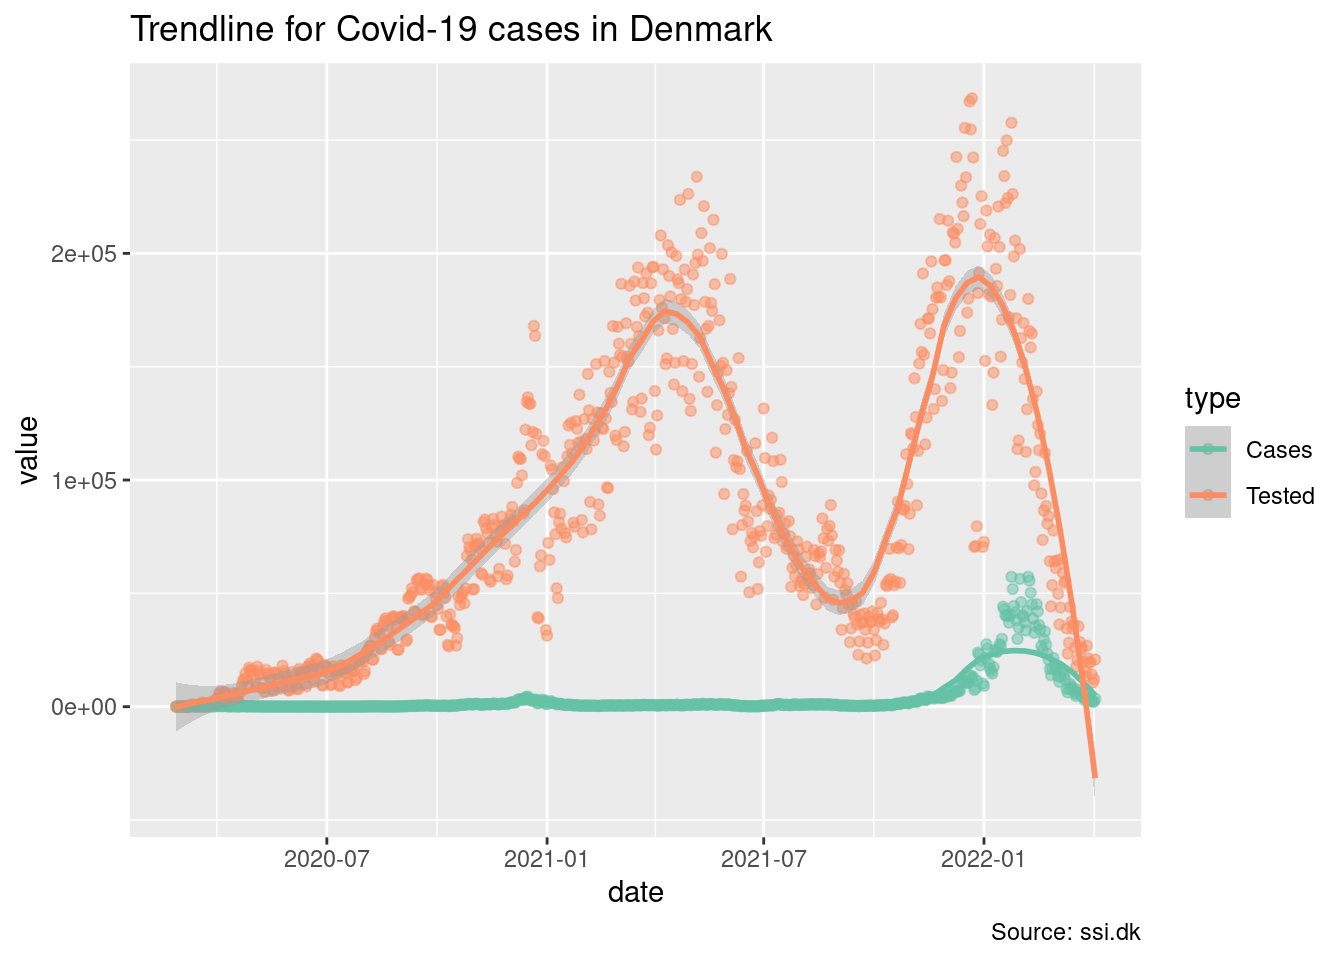
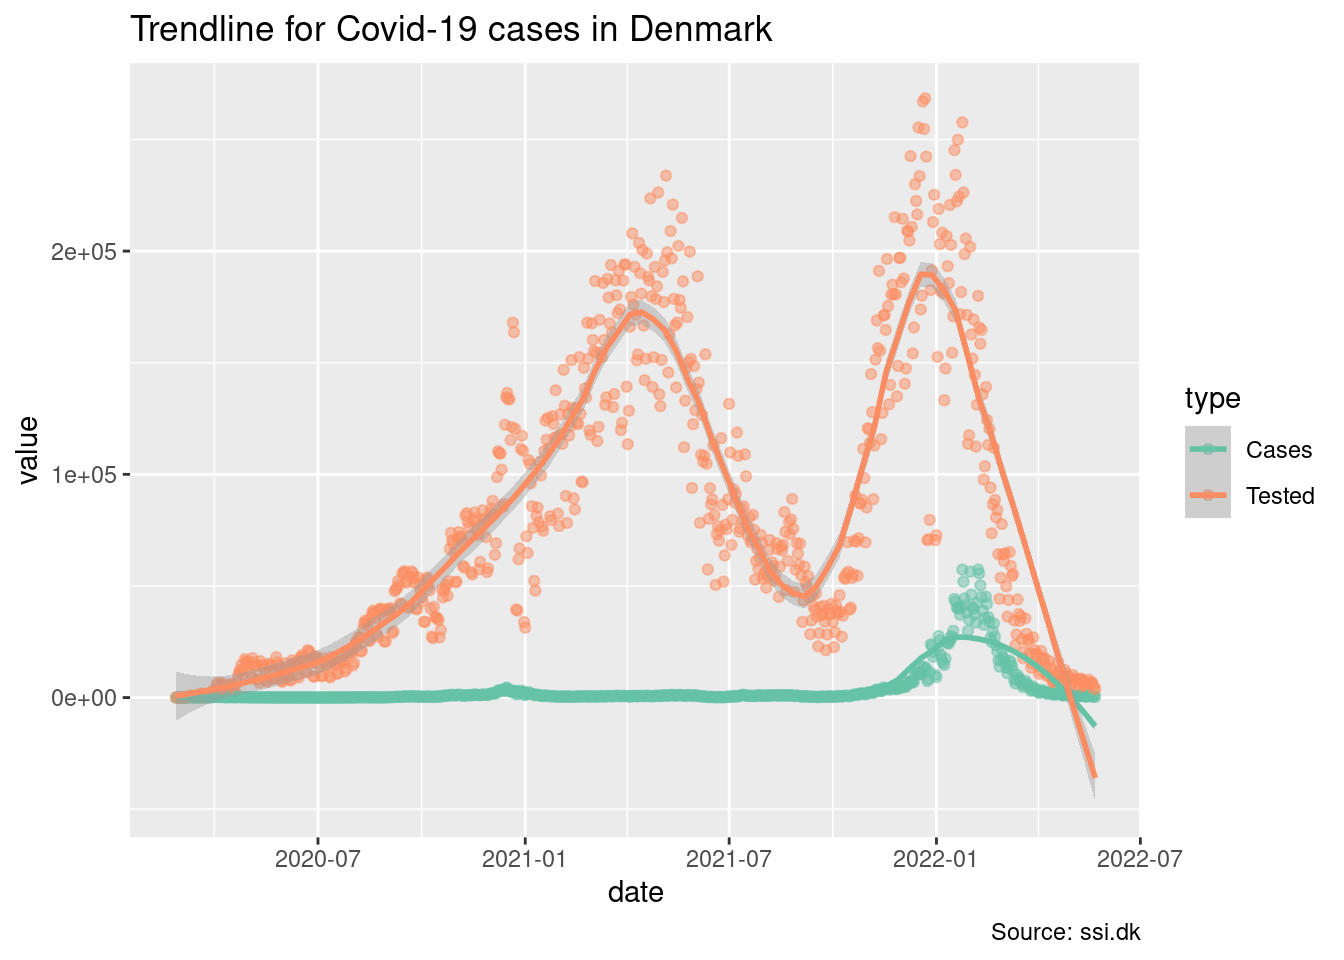
2022-05-24

diff --git a/docs/index.html b/docs/index.html
@@ -10,7 +10,7 @@
 
 
 
-<meta name="date" content="2022-04-06" />
+<meta name="date" content="2022-05-24" />
 
 <title>Covid-19 Stats for Denmark</title>
 
@@ -261,7 +261,7 @@ $(document).ready(function () {
 
 
 <h1 class="title toc-ignore">Covid-19 Stats for Denmark</h1>
-<h4 class="date">2022-04-06</h4>
+<h4 class="date">2022-05-24</h4>
 
 </div>
 
@@ -308,7 +308,7 @@ $(document).ready(function () {
 <pre class="r"><code>library(tidyverse)
 library(lubridate)</code></pre>
 <p>SSI’s data is in a zip file. We unpack this zip file into a directory of the general form <code>YYYY-MM-DD</code>. Lets set up a name for the current directory we want to grab data from</p>
-<pre class="r"><code>date &lt;- &quot;2022-04-06&quot;</code></pre>
+<pre class="r"><code>date &lt;- &quot;2022-05-24&quot;</code></pre>
 </div>
 <div id="ingesting-data" class="section level2">
 <h2>Ingesting data</h2>
@@ -350,7 +350,7 @@ library(lubridate)</code></pre>
                                       ))</code></pre>
 <pre><code>## ℹ Using &quot;&#39;,&#39;&quot; as decimal and &quot;&#39;.&#39;&quot; as grouping mark. Use `read_delim()` for more control.</code></pre>
 <pre class="r"><code>data</code></pre>
-<pre><code>## # A tibble: 7,350 × 9
+<pre><code>## # A tibble: 7,828 × 9
 ##    Region      Prøvetagningsdato Køn   `Bekræftede tilfælde…`  Døde Indlæggelser
 ##    &lt;fct&gt;       &lt;date&gt;            &lt;fct&gt;                  &lt;dbl&gt; &lt;dbl&gt;        &lt;dbl&gt;
 ##  1 Sjælland    2020-02-26        M                          1     0            0
@@ -363,7 +363,7 @@ library(lubridate)</code></pre>
 ##  8 Hovedstaden 2020-03-03        F                          1     0            0
 ##  9 Hovedstaden 2020-03-03        M                          3     0            1
 ## 10 Hovedstaden 2020-03-04        M                          2     0            0
-## # … with 7,340 more rows, and 3 more variables: `Kummuleret antal døde` &lt;dbl&gt;,
+## # … with 7,818 more rows, and 3 more variables: `Kummuleret antal døde` &lt;dbl&gt;,
 ## #   `Kummuleret antal bekræftede tilfælde` &lt;dbl&gt;,
 ## #   `Kummuleret antal indlæggelser` &lt;dbl&gt;</code></pre>
 <p>We certainly don’t want to work with danish-named columns. Rather, we want small descriptive names which are easy to type. We send our dataset through a <code>rename</code> pass for this.</p>
@@ -378,7 +378,7 @@ library(lubridate)</code></pre>
 # Cut the cumulative columns away
 data &lt;- data %&gt;% select(region, date, gender, cases, deaths, hospitalizations)
 data</code></pre>
-<pre><code>## # A tibble: 7,350 × 6
+<pre><code>## # A tibble: 7,828 × 6
 ##    region      date       gender cases deaths hospitalizations
 ##    &lt;fct&gt;       &lt;date&gt;     &lt;fct&gt;  &lt;dbl&gt;  &lt;dbl&gt;            &lt;dbl&gt;
 ##  1 Sjælland    2020-02-26 M          1      0                0
@@ -391,7 +391,7 @@ data</code></pre>
 ##  8 Hovedstaden 2020-03-03 F          1      0                0
 ##  9 Hovedstaden 2020-03-03 M          3      0                1
 ## 10 Hovedstaden 2020-03-04 M          2      0                0
-## # … with 7,340 more rows</code></pre>
+## # … with 7,818 more rows</code></pre>
 <p>Provide a low cut-off. We are interested in the recent period with Omicron, rather than the full duration of Covid-19.</p>
 <pre class="r"><code>lo_cutoff &lt;- &#39;2021-09-01&#39;</code></pre>
 <p>The high end of that cutoff, we set to two days before the maximal date in our data set</p>
@@ -405,7 +405,7 @@ data</code></pre>
 # Put this into the summary
 summary &lt;- data
 summary</code></pre>
-<pre><code>## # A tibble: 2,150 × 6
+<pre><code>## # A tibble: 2,630 × 6
 ##    region      date       gender cases deaths hospitalizations
 ##    &lt;fct&gt;       &lt;date&gt;     &lt;fct&gt;  &lt;dbl&gt;  &lt;dbl&gt;            &lt;dbl&gt;
 ##  1 Hovedstaden 2021-09-01 F        215      0                7
@@ -418,7 +418,7 @@ summary</code></pre>
 ##  8 Nordjylland 2021-09-01 M         16      1                2
 ##  9 Sjælland    2021-09-01 M         39      0                3
 ## 10 Syddanmark  2021-09-01 M         40      0                1
-## # … with 2,140 more rows</code></pre>
+## # … with 2,620 more rows</code></pre>
 </div>
 <div id="weekly-key-figures-split-by-age" class="section level3">
 <h3>Weekly key figures split by age</h3>
@@ -443,7 +443,7 @@ summary</code></pre>
                         tested = &#39;Antal testede&#39;,
                         cases = &#39;Antal positive&#39;)
 data</code></pre>
-<pre><code>## # A tibble: 1,003 × 7
+<pre><code>## # A tibble: 1,066 × 7
 ##    week     ageGroup tested_100k cases_100k hospitalized_100k tested cases
 ##    &lt;chr&gt;    &lt;fct&gt;          &lt;dbl&gt;      &lt;dbl&gt;             &lt;dbl&gt;  &lt;dbl&gt; &lt;dbl&gt;
 ##  1 2020-U04 00-02              0          0                 0      0     0
@@ -456,7 +456,7 @@ data</code></pre>
 ##  8 2020-U04 65-79              0          0                 0      0     0
 ##  9 2020-U04 80+                0          0                 0      0     0
 ## 10 2020-U05 65-79              0          0                 0      1     0
-## # … with 993 more rows</code></pre>
+## # … with 1,056 more rows</code></pre>
 <p>Take a look at the <code>week</code> column. It reports a year, and a week number. We’ll need to handle this, by converting this into a date. We’ll do that by defining a fixup function. If we have a string such as <code>2020-W04</code>, it means the 4th week of 2020. To get a date, we need a day inside the week to use as the day-of-week. So we turn the string into <code>2020-W04-1</code>, then send it through <code>strptime()</code>, a general time-parsing function.</p>
 <pre class="r"><code>fixup_week &lt;- function(s) {
     # For strptime to do its work correctly, it must know a day of the week. Here, we
@@ -508,16 +508,16 @@ data</code></pre>
 <pre><code>## # A tibble: 99 × 11
 ##     lau1 name       `Bekræftede ti…` Incidens cases incidence tested tested_100k
 ##    &lt;dbl&gt; &lt;fct&gt;                 &lt;dbl&gt;    &lt;dbl&gt; &lt;dbl&gt;     &lt;dbl&gt;  &lt;dbl&gt;       &lt;dbl&gt;
-##  1   411 &quot;&quot;                        0       NA     0        0      93      102000
-##  2   101 &quot;Københav…           367886    57329  1690      263. 660801      103000
-##  3   147 &quot;Frederik…            56977    55172   293      284. 113096      110000
-##  4   151 &quot;Ballerup&quot;            27594    55986   194      394.  50444      102000
-##  5   153 &quot;Brøndby&quot;             20852    58432   113      317.  36430      102000
-##  6   155 &quot;Dragør&quot;               8031    55113    63      432.  14645      101000
-##  7   157 &quot;Gentofte&quot;            39313    53154   220      298.  76641      104000
-##  8   159 &quot;Gladsaxe&quot;            38731    55996   196      283.  72624      105000
-##  9   161 &quot;Glostrup&quot;            13253    56586    82      350.  24615      105000
-## 10   163 &quot;Herlev&quot;              16938    58837   100      347.  29996      104000
+##  1   411 &quot;&quot;                        0       NA     0       0       93      102000
+##  2   101 &quot;Københav…           372803    57893   367      57   662562      103000
+##  3   147 &quot;Frederik…            57932    55884    74      71.4 113474      109000
+##  4   151 &quot;Ballerup&quot;            28072    56737    26      52.5  50576      102000
+##  5   153 &quot;Brøndby&quot;             21190    58989    35      97.4  36556      102000
+##  6   155 &quot;Dragør&quot;               8190    56127    11      75.4  14696      101000
+##  7   157 &quot;Gentofte&quot;            40135    54235    63      85.1  76922      104000
+##  8   159 &quot;Gladsaxe&quot;            39453    56938    56      80.8  72826      105000
+##  9   161 &quot;Glostrup&quot;            13479    57558    21      89.7  24692      105000
+## 10   163 &quot;Herlev&quot;              17227    59814    11      38.2  30074      104000
 ## # … with 89 more rows, and 3 more variables: tested_1w &lt;dbl&gt;,
 ## #   tested_100k_1w &lt;dbl&gt;, population &lt;dbl&gt;</code></pre>
 <pre class="r"><code>muncipalities &lt;- data</code></pre>
@@ -697,21 +697,23 @@ muncipalities$incidence_type &lt;- ifelse(muncipalities$incidence_z &lt; 0, &quo
 muncipalities$rate_z &lt;- round(muncipalities$rate - mean(muncipalities$rate), 5)
 muncipalities$rate_type &lt;- ifelse(muncipalities$rate_z &lt; 0, &quot;Below mean&quot;, &quot;Above mean&quot;)
 muncipalities$rate</code></pre>
-<pre><code>##  [1]       NaN 0.1304818 0.1410010 0.1945838 0.1414268 0.2045455 0.1445466
-##  [8] 0.1470368 0.1558935 0.1538462 0.1412844 0.1442786 0.1470588 0.1456469
-## [15] 0.1550468 0.1001965 0.1301775 0.1766382 0.1946387 0.1858553 0.1551499
-## [22] 0.1249036 0.1570423 0.1095335 0.1480447 0.1647550 0.1913357 0.1842105
-## [29] 0.1809764 0.1722222 0.1926966 0.1762115 0.1551020 0.1822095 0.2300532
-## [36] 0.1787297 0.2525952 0.2044444 0.1876184 0.1587744 0.2480974 0.2055641
-## [43] 0.1937858 0.1946956 0.1964520 0.1590494 0.1510277 0.2135524 0.1913652
-## [50] 0.2196181 0.2313253 0.1855422 0.1524655 0.1638418 0.2308917 0.2160000
-## [57] 0.1913580 0.1967213 0.2050000 0.1940594 0.1709302 0.1851420 0.1794872
-## [64] 0.2231121 0.2242595 0.1703297 0.1590320 0.1800000 0.2037968 0.2012632
-## [71] 0.2314410 0.2221095 0.2563291 0.2358491 0.2237197 0.2010582 0.2246377
-## [78] 0.2226721 0.2070006 0.2039216 0.2653061 0.2483940 0.1807725 0.2728636
-## [85] 0.2453052 0.2380952 0.1901235 0.2061856 0.2231308 0.1859532 0.2378641
-## [92] 0.2344633 0.2084006 0.2881356 0.2370062 0.1910275 0.2289157 0.1811909
-## [99] 0.2134725</code></pre>
+<pre><code>##  [1]        NaN 0.07173573 0.08820024 0.10358566 0.10937500 0.09166667
+##  [7] 0.09361070 0.11428571 0.13815789 0.05045872 0.04519774 0.08917197
+## [13] 0.09593023 0.08775982 0.07070707 0.05194805 0.08753316 0.07207207
+## [19] 0.17301038 0.12727273 0.10597826 0.09059829 0.07198748 0.18181818
+## [25] 0.11001642 0.10447761 0.10362694 0.13138686 0.11890838 0.08849558
+## [31] 0.12982998 0.16267943 0.14460784 0.07262570 0.09306931 0.13567839
+## [37] 0.08856089 0.14646465 0.07522124 0.09146341 0.13333333 0.13901345
+## [43] 0.06880734 0.09854604 0.08587786 0.08802817 0.11387900 0.10903427
+## [49] 0.12946429 0.10299003 0.09473684 0.05829596 0.09409474 0.10550459
+## [55] 0.13375796 0.06944444 0.05000000 0.13333333 0.15135135 0.08571429
+## [61] 0.07425743 0.13782542 0.12121212 0.11627907 0.12376238 0.14420804
+## [67] 0.09887640 0.09384164 0.10883281 0.08476821 0.10344828 0.07941176
+## [73] 0.14516129 0.07792208 0.11946903 0.13138686 0.12809917 0.19310345
+## [79] 0.11094453 0.13368984 0.30000000 0.15231788 0.11922905 0.15217391
+## [85] 0.11111111 0.11627907 0.02000000 0.17727273 0.12083333 0.10977702
+## [91] 0.13533835 0.09792285 0.11111111 0.00000000 0.12612613 0.07526882
+## [97] 0.10588235 0.09527170 0.07238606</code></pre>
 <pre class="r"><code>#ggplot(muncipalities %&gt;% mutate(name = fct_reorder(name, rate)), aes(x=name, y=rate)) +
 #  geom_bar(stat=&#39;identity&#39;, aes(fill=rate_type), width=.5)  +
 #  scale_colour_brewer(palette=&quot;Set2&quot;) +
@@ -738,7 +740,7 @@ muncipalities$rate</code></pre>
 popcount &lt;- read_data_2(&quot;./data/DS/2022121185617360647690FOLK1AM68563293012.csv&quot;)</code></pre>
 <pre><code>## ℹ Using &quot;&#39;,&#39;&quot; as decimal and &quot;&#39;.&#39;&quot; as grouping mark. Use `read_delim()` for more control.</code></pre>
 <pre><code>## Rows: 103 Columns: 4
-## ── Column specification ──────────────────────────────────────────────────────────────────────────────────────────────────────────────────────────────────────────
+## ── Column specification ───────────────────────────────────────────────────────────────────────────────────────────────────────────────────────────────────────────────────────────────────────
 ## Delimiter: &quot;;&quot;
 ## chr (3): X1, X2, X3
 ## dbl (1): X4
@@ -769,16 +771,16 @@ popcount</code></pre>
 <pre><code>## # A tibble: 99 × 3
 ##    name            incidence popcount
 ##    &lt;chr&gt;               &lt;dbl&gt;    &lt;dbl&gt;
-##  1 &quot;&quot;                     0        NA
-##  2 &quot;København&quot;          263.   644987
-##  3 &quot;Frederiksberg&quot;      284.   103963
-##  4 &quot;Ballerup&quot;           394.    49228
-##  5 &quot;Brøndby&quot;            317.    35535
-##  6 &quot;Dragør&quot;             432.    14602
-##  7 &quot;Gentofte&quot;           298.    74154
-##  8 &quot;Gladsaxe&quot;           283.    69321
-##  9 &quot;Glostrup&quot;           350.    23519
-## 10 &quot;Herlev&quot;             347.    28861
+##  1 &quot;&quot;                    0         NA
+##  2 &quot;København&quot;          57     644987
+##  3 &quot;Frederiksberg&quot;      71.4   103963
+##  4 &quot;Ballerup&quot;           52.5    49228
+##  5 &quot;Brøndby&quot;            97.4    35535
+##  6 &quot;Dragør&quot;             75.4    14602
+##  7 &quot;Gentofte&quot;           85.1    74154
+##  8 &quot;Gladsaxe&quot;           80.8    69321
+##  9 &quot;Glostrup&quot;           89.7    23519
+## 10 &quot;Herlev&quot;             38.2    28861
 ## # … with 89 more rows</code></pre>
 <p>Now, test correlation via Pearson:</p>
 <pre class="r"><code>plot(muncipalities$incidence, muncipalities$popcount)</code></pre>
@@ -788,13 +790,13 @@ popcount</code></pre>
 ##  Pearson&#39;s product-moment correlation
 ## 
 ## data:  muncipalities$incidence and muncipalities$popcount
-## t = -2.3016, df = 92, p-value = 0.02362
+## t = -0.40094, df = 92, p-value = 0.6894
 ## alternative hypothesis: true correlation is not equal to 0
 ## 95 percent confidence interval:
-##  -0.41627118 -0.03224184
+##  -0.2423309  0.1622251
 ## sample estimates:
-##        cor 
-## -0.2333345</code></pre>
+##         cor 
+## -0.04176463</code></pre>
 <p>Clearly, this argues there are no strong connection between population count, and the incidence in a given muncipality.</p>
 <p>Analyzing the rate shows there’s a connection between it and incidence, but this is more expected:</p>
 <pre class="r"><code>pairs(muncipalities %&gt;% select(incidence,popcount,rate))</code></pre>
@@ -804,17 +806,17 @@ popcount</code></pre>
 ##  Pearson&#39;s product-moment correlation
 ## 
 ## data:  muncipalities$incidence and muncipalities$rate
-## t = 6.6667, df = 96, p-value = 1.657e-09
+## t = 7.5637, df = 96, p-value = 2.354e-11
 ## alternative hypothesis: true correlation is not equal to 0
 ## 95 percent confidence interval:
-##  0.4098729 0.6845541
+##  0.4695843 0.7219534
 ## sample estimates:
 ##       cor 
-## 0.5625435</code></pre>
+## 0.6110686</code></pre>
 <p>Summarize:</p>
 <pre class="r"><code>summary(muncipalities$rate)</code></pre>
 <pre><code>##    Min. 1st Qu.  Median    Mean 3rd Qu.    Max.    NA&#39;s 
-##  0.1002  0.1602  0.1914  0.1917  0.2215  0.2881       1</code></pre>
+## 0.00000 0.08783 0.10569 0.10795 0.12974 0.30000       1</code></pre>
 <pre class="r"><code>#d &lt;- density(muncipalities$rate)
 #plot(d)</code></pre>
 </div>

diff --git a/docs/core.html b/docs/core.html
@@ -10,7 +10,7 @@
 
 
 
-<meta name="date" content="2022-04-06" />
+<meta name="date" content="2022-05-24" />
 
 <title>Core Covid-19 Stats for Denmark</title>
 
@@ -261,7 +261,7 @@ $(document).ready(function () {
 
 
 <h1 class="title toc-ignore">Core Covid-19 Stats for Denmark</h1>
-<h4 class="date">2022-04-06</h4>
+<h4 class="date">2022-05-24</h4>
 
 </div>
 
@@ -325,7 +325,7 @@ rt_cases</code></pre>
 <pre class="r"><code>m_cases_timeseries_path &lt;- sprintf(&quot;%s/Municipality_cases_time_series.csv&quot;, path)
 m_cases_timeseries &lt;- readr::read_csv2(m_cases_timeseries_path)
 m_cases_timeseries</code></pre>
-<pre><code>## # A tibble: 770 × 101
+<pre><code>## # A tibble: 818 × 101
 ##    SampleDate Roskilde Copenhagen Aarhus Frederiksberg Kalundborg Middelfart
 ##    &lt;date&gt;        &lt;dbl&gt;      &lt;dbl&gt;  &lt;dbl&gt;         &lt;dbl&gt;      &lt;dbl&gt;      &lt;dbl&gt;
 ##  1 2020-02-26        1          0      0             0          0          0
@@ -338,7 +338,7 @@ m_cases_timeseries</code></pre>
 ##  8 2020-03-05        0          2      0             2          0          0
 ##  9 2020-03-06        0          0      0             0          0          0
 ## 10 2020-03-07        0          1      1             1          0          0
-## # … with 760 more rows, and 94 more variables: Gentofte &lt;dbl&gt;, Solrød &lt;dbl&gt;,
+## # … with 808 more rows, and 94 more variables: Gentofte &lt;dbl&gt;, Solrød &lt;dbl&gt;,
 ## #   Allerød &lt;dbl&gt;, Dragør &lt;dbl&gt;, Helsingør &lt;dbl&gt;, Hillerød &lt;dbl&gt;,
 ## #   Rudersdal &lt;dbl&gt;, Næstved &lt;dbl&gt;, Aalborg &lt;dbl&gt;, Vallensbæk &lt;dbl&gt;,
 ## #   Esbjerg &lt;dbl&gt;, Favrskov &lt;dbl&gt;, Frederikssund &lt;dbl&gt;, Furesø &lt;dbl&gt;,
@@ -351,7 +351,7 @@ m_cases_timeseries</code></pre>
   rename(date = `SampleDate`)
 
 m_cases_timeseries</code></pre>
-<pre><code>## # A tibble: 77,000 × 3
+<pre><code>## # A tibble: 81,800 × 3
 ##    date       Municipality  Cases
 ##    &lt;date&gt;     &lt;chr&gt;         &lt;dbl&gt;
 ##  1 2020-02-26 Roskilde          1
@@ -364,7 +364,7 @@ m_cases_timeseries</code></pre>
 ##  8 2020-02-26 Solrød            0
 ##  9 2020-02-26 Allerød           0
 ## 10 2020-02-26 Dragør            0
-## # … with 76,990 more rows</code></pre>
+## # … with 81,790 more rows</code></pre>
 <p>We use the same strategy for the tests:</p>
 <pre class="r"><code>m_tested_timeseries_path &lt;- sprintf(&quot;%s/Municipality_tested_persons_time_series.csv&quot;, path)
 m_tested_timeseries &lt;- readr::read_csv2(m_tested_timeseries_path)
@@ -375,7 +375,7 @@ m_tested_timeseries &lt;- m_tested_timeseries %&gt;%
 <pre class="r"><code>municipality &lt;- m_cases_timeseries %&gt;% left_join(m_tested_timeseries, by = c(&quot;date&quot;, &quot;Municipality&quot;))
 municipality &lt;- municipality %&gt;% mutate(Municipality = factor(Municipality))
 municipality</code></pre>
-<pre><code>## # A tibble: 77,000 × 4
+<pre><code>## # A tibble: 81,800 × 4
 ##    date       Municipality  Cases Tested
 ##    &lt;date&gt;     &lt;fct&gt;         &lt;dbl&gt;  &lt;dbl&gt;
 ##  1 2020-02-26 Roskilde          1      3
@@ -388,7 +388,7 @@ municipality</code></pre>
 ##  8 2020-02-26 Solrød            0      0
 ##  9 2020-02-26 Allerød           0      0
 ## 10 2020-02-26 Dragør            0      0
-## # … with 76,990 more rows</code></pre>
+## # … with 81,790 more rows</code></pre>
 </div>
 </div>
 <div id="plots-of-interest" class="section level2">
